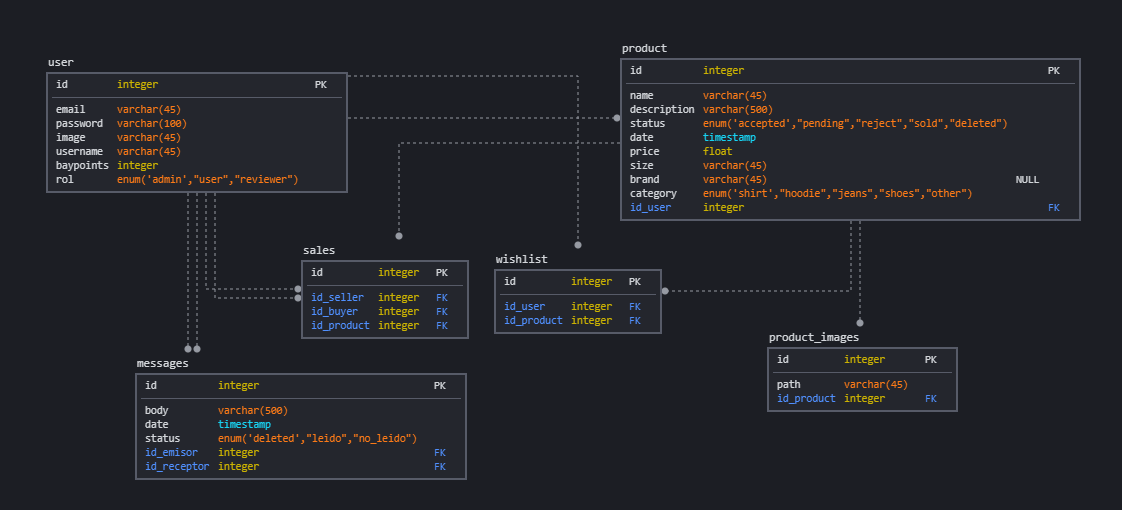
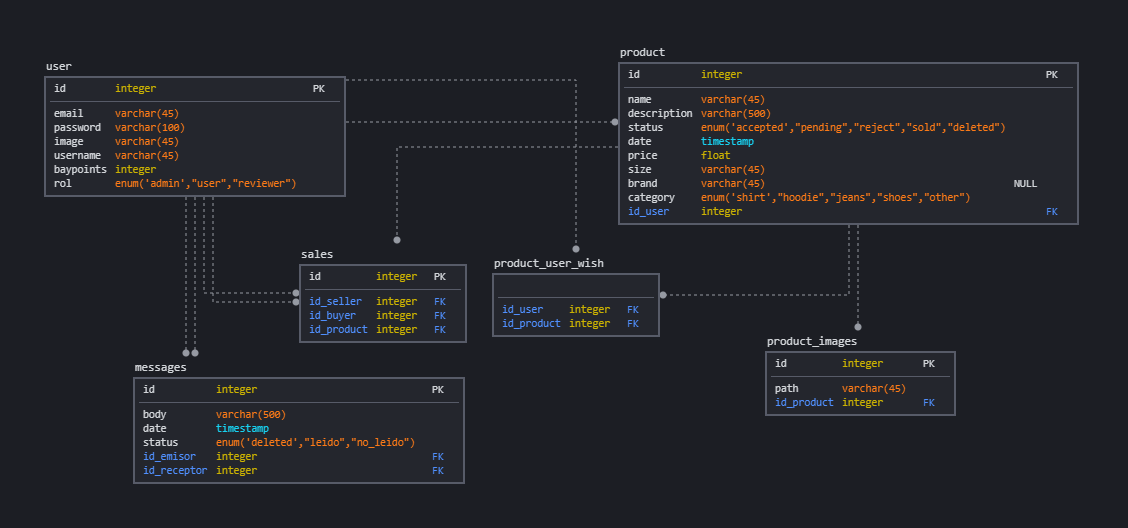
Avanzando JPA

diff --git a/bayshop/leeme.html b/bayshop/leeme.html
@@ -1,5 +1,6 @@
 <!DOCTYPE html>
 <html lang="es">
+
 <head>
     <!-- Required meta tags -->
     <meta charset="utf-8">
@@ -7,22 +8,15 @@
     <meta http-equiv="X-UA-Compatible" content="IE=edge">
 
     <!-- Bootstrap CSS -->
-    <link rel="stylesheet" href="https://maxcdn.bootstrapcdn.com/bootstrap/4.0.0/css/bootstrap.min.css"
-        integrity="sha384-Gn5384xqQ1aoWXA+058RXPxPg6fy4IWvTNh0E263XmFcJlSAwiGgFAW/dAiS6JXm" crossorigin="anonymous">
+    <link rel="stylesheet" href="https://maxcdn.bootstrapcdn.com/bootstrap/4.0.0/css/bootstrap.min.css" integrity="sha384-Gn5384xqQ1aoWXA+058RXPxPg6fy4IWvTNh0E263XmFcJlSAwiGgFAW/dAiS6JXm" crossorigin="anonymous">
 
     <!-- FontAwesome -->
-    <link rel="stylesheet" href="https://cdnjs.cloudflare.com/ajax/libs/font-awesome/4.7.0/css/font-awesome.css"
-        integrity="sha512-5A8nwdMOWrSz20fDsjczgUidUBR8liPYU+WymTZP1lmY9G6Oc7HlZv156XqnsgNUzTyMefFTcsFH/tnJE/+xBg=="
-        crossorigin="anonymous" />
+    <link rel="stylesheet" href="https://cdnjs.cloudflare.com/ajax/libs/font-awesome/4.7.0/css/font-awesome.css" integrity="sha512-5A8nwdMOWrSz20fDsjczgUidUBR8liPYU+WymTZP1lmY9G6Oc7HlZv156XqnsgNUzTyMefFTcsFH/tnJE/+xBg==" crossorigin="anonymous" />
 
     <!-- jQuery first, then Popper.js, then Bootstrap JS -->
     <script src="https://code.jquery.com/jquery-3.2.1.min.js"></script>
-    <script src="https://cdnjs.cloudflare.com/ajax/libs/popper.js/1.12.9/umd/popper.min.js"
-        integrity="sha384-ApNbgh9B+Y1QKtv3Rn7W3mgPxhU9K/ScQsAP7hUibX39j7fakFPskvXusvfa0b4Q"
-        crossorigin="anonymous"></script>
-    <script src="https://maxcdn.bootstrapcdn.com/bootstrap/4.0.0/js/bootstrap.min.js"
-        integrity="sha384-JZR6Spejh4U02d8jOt6vLEHfe/JQGiRRSQQxSfFWpi1MquVdAyjUar5+76PVCmYl"
-        crossorigin="anonymous"></script>
+    <script src="https://cdnjs.cloudflare.com/ajax/libs/popper.js/1.12.9/umd/popper.min.js" integrity="sha384-ApNbgh9B+Y1QKtv3Rn7W3mgPxhU9K/ScQsAP7hUibX39j7fakFPskvXusvfa0b4Q" crossorigin="anonymous"></script>
+    <script src="https://maxcdn.bootstrapcdn.com/bootstrap/4.0.0/js/bootstrap.min.js" integrity="sha384-JZR6Spejh4U02d8jOt6vLEHfe/JQGiRRSQQxSfFWpi1MquVdAyjUar5+76PVCmYl" crossorigin="anonymous"></script>
 
     <!-- Font -->
     <link rel="preconnect" href="https://fonts.gstatic.com">
@@ -32,23 +26,25 @@
     <!--div>Iconos diseñados por <a href="https://www.freepik.com" title="Freepik">Freepik</a> from <a href="https://www.flaticon.es/" title="Flaticon">www.flaticon.es</a></!--div-->
     <link rel="icon" href="src/main/resources/static/img/bay_32.png">
 
+    <style>
+        a {
+            text-decoration: none !important;
+        }
+    </style>
+
     <title>BayShop - Leeme</title>
 </head>
+
 <body>
     <div class="container">
         <h1>Descripción</h1>
-        <p>Desde BayShop entendemos la necesidad de tener que deshacerte de ropa que ya no usas y que está en buen
-            estado. Además, ¡da un giro a tu imaginación subiendo tus propios diseños de ropa y saca provecho de ello!
-            Por eso te damos la oportunidad de que obtengas dinero por venderla dándole una segunda vida a tus prendas y
-            que las reutilice otra persona. También, puedes hacer de comprador y obtener prendas geniales a un precio
-            ridículo. El sistema posee un sistema de puntos que se pueden ganar cuando compres productos en la
-            plataforma. Estos puntos se podrán canjear en el carrito de la compra descontando dinero equivalente del
-            precio total de la compra (hay un límite de cantidad de puntos que un usuario puede acumular).</p>
+        <p>Desde BayShop entendemos la necesidad de tener que deshacerte de ropa que ya no usas y que está en buen estado. Además, ¡da un giro a tu imaginación subiendo tus propios diseños de ropa y saca provecho de ello! Por eso te damos la oportunidad
+            de que obtengas dinero por venderla dándole una segunda vida a tus prendas y que las reutilice otra persona. También, puedes hacer de comprador y obtener prendas geniales a un precio ridículo. El sistema posee un sistema de puntos que se pueden
+            ganar cuando compres productos en la plataforma. Estos puntos se podrán canjear en el carrito de la compra descontando dinero equivalente del precio total de la compra (hay un límite de cantidad de puntos que un usuario puede acumular).</p>
 
         <h1>Vistas disponibles en la aplicación:</h1>
         <ul>
-            <li>Vista login y register: <a href="http://localhost:8080/login">aquí</a> y <a
-                    href="http://localhost:8080/register">aquí</a> respectivamente</li>
+            <li>Vista login y register: <a href="http://localhost:8080/login">aquí</a> y <a href="http://localhost:8080/register">aquí</a> respectivamente</li>
             <li>Vista principal de todos los productos: <a href="http://localhost:8080/">aquí</a></li>
             <li>Vista detallada de un producto: <a href="http://localhost:8080/producto/id">aquí</a></li>
             <li>Vista del revisor de contenido: <a href="http://localhost:8080/revisor/">aquí</a></li>
@@ -60,14 +56,14 @@
             <li>Vista detallada del resumen de tu compra: <a href="http://localhost:8080/compra/">aquí</a></li>
         </ul>
 
+        <h1>Base de datos</h1>
+        <p>Hemos usado <a href="https://app.sqldbm.com/">SqlDBM</a> para general el siguiente esquema:</p>
+        <img src="src/main/resources/static/img/bayshop_schema_db.png" style="margin-bottom: 10px;" alt="schema_img">
+
         <h1>Recursos usados</h1>
         <ul>
             <li>
-                Logo de la aplicación: el logo lo hemos descargado de <a href="https://www.flaticon.es/">flaticon</a>,
-                pudiendo usarlo en nuestra aplicación siempre que se atribuya el logo al autor, como <a
-                    href="https://support.flaticon.com/hc/en-us/articles/207248209-How-I-must-insert-the-attribution-">nombra</a>
-                en su propia web (logo en cuestión: <a
-                    href="https://www.flaticon.es/icono-gratis/bahia_1788595?term=bahia&page=1&position=9&page=1&position=9&related_id=1788595&origin=search">aquí</a>).
+                Logo de la aplicación: el logo lo hemos descargado de <a href="https://www.flaticon.es/">flaticon</a>, pudiendo usarlo en nuestra aplicación siempre que se atribuya el logo al autor, como <a href="https://support.flaticon.com/hc/en-us/articles/207248209-How-I-must-insert-the-attribution-">nombra</a>                en su propia web (logo en cuestión: <a href="https://www.flaticon.es/icono-gratis/bahia_1788595?term=bahia&page=1&position=9&page=1&position=9&related_id=1788595&origin=search">aquí</a>).
             </li>
             <li>
                 jQuery 3.2.1 (<a href="https://code.jquery.com/">download</a>)
@@ -82,10 +78,7 @@
                 Fuente de la web (<a href="https://fonts.googleapis.com/css2?family=Poppins&display=swap">download</a>)
             </li>
         </ul>
-
-        <h1>Base de datos</h1>
-        <p>Hemos usado <a href="https://app.sqldbm.com/">SqlDBM</a> para general el siguiente esquema:</p>
-        <img src="src/main/resources/static/img/bayshop_schema_db.png" alt="schema_img">
     </div>
 </body>
+
 </html>

diff --git a/bayshop/src/main/java/es/ucm/fdi/iw/g01/bayshop/model/User.java b/bayshop/src/main/java/es/ucm/fdi/iw/g01/bayshop/model/User.java
@@ -2,6 +2,8 @@ package es.ucm.fdi.iw.g01.bayshop.model;
 
 import java.util.ArrayList;
 import java.util.Date;
+import java.util.List;
+
 import lombok.Data;
 import javax.persistence.Entity;
 import javax.persistence.GeneratedValue;
@@ -10,18 +12,31 @@ import javax.persistence.Id;
 import javax.persistence.JoinColumn;
 import javax.persistence.ManyToMany;
 import javax.persistence.OneToMany;
+import javax.persistence.OneToOne;
+import javax.persistence.Table;
 
-// @Entity
-// @Data
+@Entity
+@Data
 public class User {
-    // @Id
-    // @GeneratedValue(strategy = GenerationType.IDENTITY)
+    @Id
+    @GeneratedValue(strategy = GenerationType.IDENTITY)
     private long id;
     private String email;
     private String password;
-    private Product_images image;
+    // Ruta del fichero donde esta la imagen de perfil, no hace falta guardarlo en una tabla user_images pues solo va a tener una
+    private String image;
     private String username;
     private int baypoints;
-    private String rol;    
+    private String rol;
 
+    @OneToMany
+    @JoinColumn(name = "user_id")
+    private List<Product> products = new ArrayList<>();
+
+    @OneToMany
+    @JoinColumn(name = "user_message_id")
+    private List<Messages> messages = new ArrayList<>();
+
+    @ManyToMany(mappedBy = "userWish")
+    private List<Product> productWish = new ArrayList<>();
 }

diff --git a/bayshop/src/main/java/es/ucm/fdi/iw/g01/bayshop/model/Product.java b/bayshop/src/main/java/es/ucm/fdi/iw/g01/bayshop/model/Product.java
@@ -10,12 +10,31 @@ import javax.persistence.GenerationType;
 import javax.persistence.Id;
 import javax.persistence.JoinColumn;
 import javax.persistence.ManyToMany;
+import javax.persistence.ManyToOne;
 import javax.persistence.OneToMany;
+import javax.persistence.OneToOne;
 
 
 @Entity
 @Data
 public class Product {
+    
+    public static enum ProductStatus{
+        ACCEPTED,
+        PENDING,
+        REJECT,
+        SOLD,
+        DELETED
+    }
+
+    public static enum Category{
+        SHIRT,
+        HOODIE,
+        JEANS,
+        SHOES,
+        OTHER
+    }
+
     @Id
     @GeneratedValue(strategy = GenerationType.IDENTITY)
     private long id;
@@ -24,15 +43,20 @@ public class Product {
     
     private Date date;
     @OneToMany
-    @JoinColumn(name="product_id")
+    @JoinColumn(name = "product_id")
     private List<Product_images> images = new ArrayList<>();
     private Float price;
     private String size;
     private String brand;
+    private ProductStatus status;
+    private Category category;
 
-    //@ManyToOne
-    //private User user;
+    @ManyToOne
+    private User user;
 
-    
+    @ManyToMany
+    private List<User> userWish = new ArrayList<>();
+
+    @ManyToOne
+    private Sales sales;
 }
-    

diff --git a/bayshop/src/main/java/es/ucm/fdi/iw/g01/bayshop/model/Messages.java b/bayshop/src/main/java/es/ucm/fdi/iw/g01/bayshop/model/Messages.java
@@ -8,20 +8,31 @@ import javax.persistence.GeneratedValue;
 import javax.persistence.GenerationType;
 import javax.persistence.Id;
 import javax.persistence.JoinColumn;
-import javax.persistence.ManyToMany;
+import javax.persistence.ManyToOne;
 import javax.persistence.OneToMany;
 
-// @Entity
-// @Data
+@Entity
+@Data
 public class Messages {
-    // @Id
-    // @GeneratedValue(strategy = GenerationType.IDENTITY)
+    public static enum MessageStatus{
+        DELETED,
+        READ,
+        UNREAD
+    }
+
+    @Id
+    @GeneratedValue(strategy = GenerationType.IDENTITY)
     private long id;
     private String body;
     private Date timestamp;
-    private long id_emisor; 
-    private long id_receptor;
+    private MessageStatus status;
 
+    @ManyToOne
+    // @JoinColumn(name = "emisor_id")
+    private User user_emisor;
 
+    @ManyToOne
+    // @JoinColumn(name = "receiver_id")
+    private User user_receiver;
 }
     

diff --git a/bayshop/src/main/java/es/ucm/fdi/iw/g01/bayshop/model/Sales.java b/bayshop/src/main/java/es/ucm/fdi/iw/g01/bayshop/model/Sales.java
@@ -1,5 +1,8 @@
 package es.ucm.fdi.iw.g01.bayshop.model;
 
+import java.util.ArrayList;
+import java.util.List;
+
 import javax.persistence.Entity;
 import javax.persistence.GeneratedValue;
 import javax.persistence.GenerationType;
@@ -7,18 +10,20 @@ import javax.persistence.Id;
 import javax.persistence.JoinColumn;
 import javax.persistence.ManyToOne;
 import javax.persistence.OneToMany;
-
+import javax.persistence.OneToOne;
 
 import lombok.Data;
 
-// @Entity
-// @Data
+@Entity
+@Data
 public class Sales {
-    // @Id
-    // @GeneratedValue(strategy = GenerationType.IDENTITY)
+    @Id
+    @GeneratedValue(strategy = GenerationType.IDENTITY)
     private long id;
-    private long id_seller;
-    private long id_buyer;
-    private long id_product;
+    private long seller;
+    private long buyer;
 
+    @OneToMany
+    @JoinColumn(name = "sales_id")
+    private List<Product> product = new ArrayList<>();
 }
